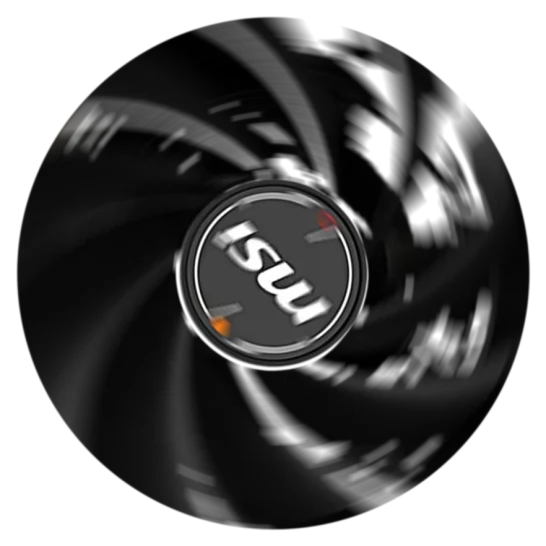
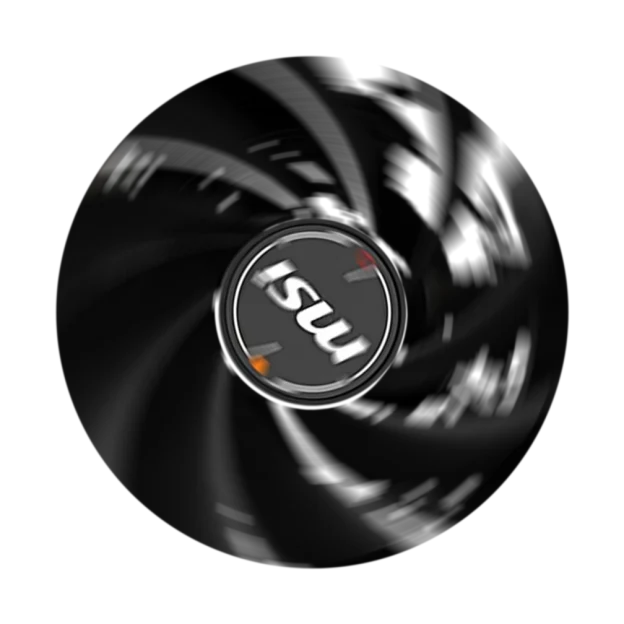
Fan backdrop: wider motion-blurred ring so no still blade edges show
Claude-Session: https://claude.ai/code/session_01JFCgMpRNswLnd9jFtKUFqv

diff --git a/tools/scripts/make_fan_layers.py b/tools/scripts/make_fan_layers.py
@@ -17,7 +17,7 @@ FANS = [((2318.2, 1011.3), (132.5, 162.3), 141.4, 2.90),
         ((2853.4, 1133.1), (141.6, 166.2), 133.8, 2.90),
         ((3424.9, 1263.2), (149.7, 171.6), 122.9, 3.05)]
 R = 420                      # frontal rotor radius in the unwarped working space
-S = int(R * 2.1); C = S / 2  # working square
+S = int(R * 2.4); C = S / 2  # working square (room for the blurred ring past the blade tips)
 yy, xx = np.mgrid[0:S, 0:S]; rr = np.hypot(xx - C, yy - C)
 
 def fan_affine(c, w, h, ang, k):
@@ -50,7 +50,8 @@ for i, (c, (w, h), ang, k) in enumerate(FANS):
         Mr = cv2.getRotationMatrix2D((C, C), k * 360.0 / steps, 1)
         acc += cv2.warpAffine(un, Mr, (S, S), flags=cv2.INTER_LINEAR, borderMode=cv2.BORDER_REPLICATE).astype(np.float32)
     behind = acc / steps * 0.8
-    hole = disk
+    # blur reaches past the blade tips (so no still blade edges peek out) and fades out softly
+    hole = (np.clip((R * 1.11 - rr) / (R * 0.07), 0, 1) * 255).astype(np.uint8)
     # rotor RGBA, plus rotational blur levels for high speeds (anti wagon-wheel)
     rgba = np.dstack([un, alpha])
     for lvl, span in enumerate([0, 10, 24, 50]):
@@ -71,7 +72,7 @@ for i, (c, (w, h), ang, k) in enumerate(FANS):
         cv2.imwrite(f'{OUT}/fan{i}-rotor-b{lvl}.webp', small, [cv2.IMWRITE_WEBP_QUALITY, 88])
     # write the "behind" back into the base photo, inside the rotor disc only
     back = cv2.warpAffine(behind, A, (W, H), flags=cv2.INTER_CUBIC)
-    fmask = cv2.warpAffine(cv2.GaussianBlur(hole, (9, 9), 0).astype(np.float32) / 255, A, (W, H), flags=cv2.INTER_LINEAR)
+    fmask = cv2.warpAffine(cv2.GaussianBlur(hole, (5, 5), 0).astype(np.float32) / 255, A, (W, H), flags=cv2.INTER_LINEAR)
     base = base * (1 - fmask[..., None]) + back * fmask[..., None]
     # transform for the website: frontal disc of the exported (0.62-scaled) rotor -> photo pixels
     sc = .62
